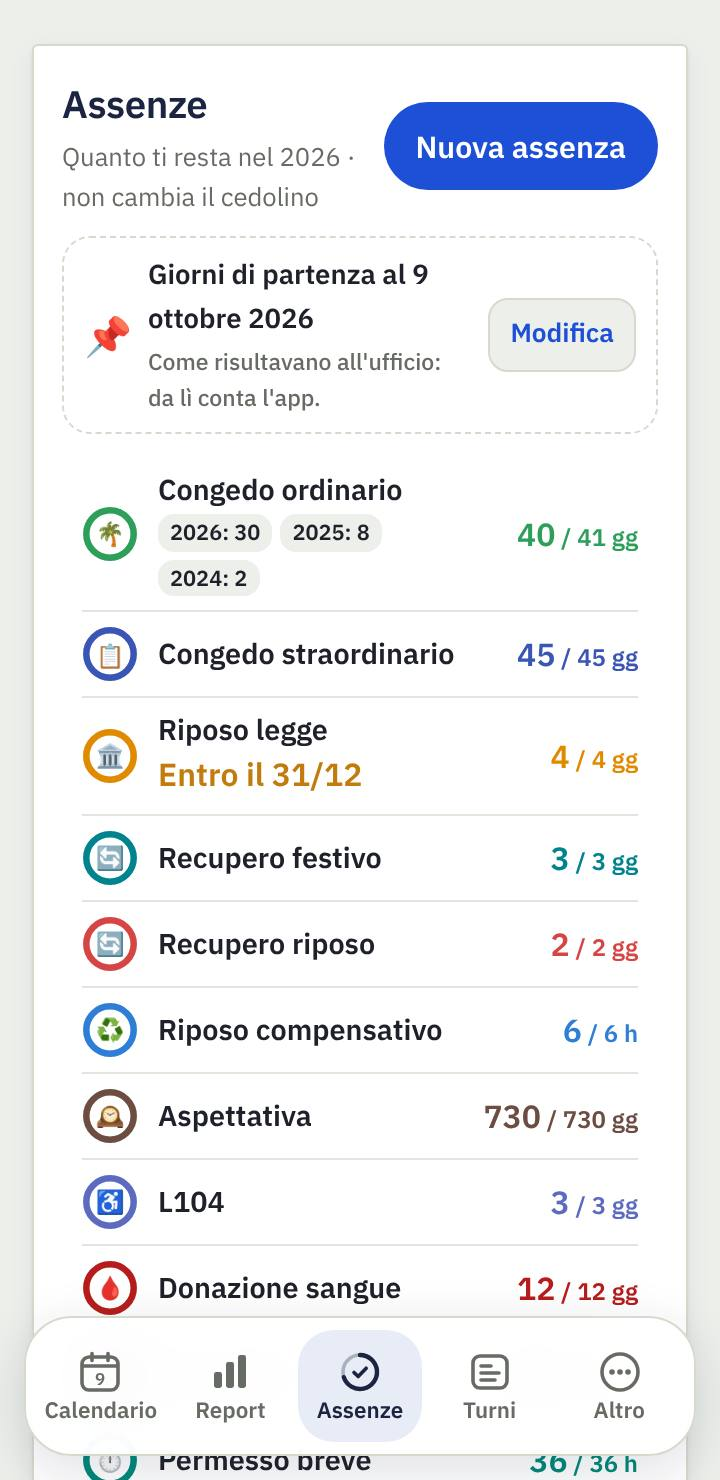
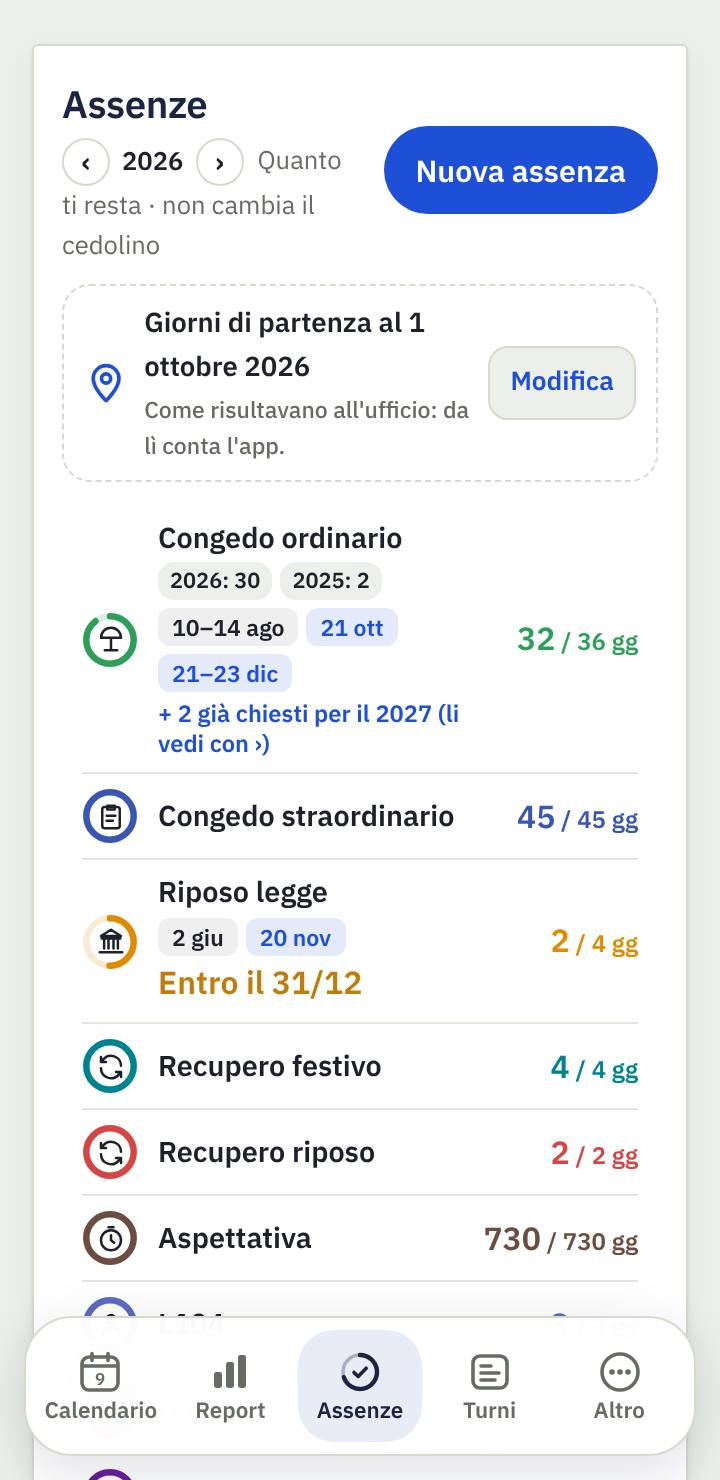
Guida Turni: vista Anno, barretta, date sulle assenze (v3.8.27)
Claude-Session: https://claude.ai/code/session_01PSeREU5gDDB7bRrUAU7GkJ

diff --git a/guida-turni.html b/guida-turni.html
@@ -23,7 +23,7 @@ a{color:#2E4A8F}
 @media(max-width:600px){.sez{grid-template-columns:1fr}.sez img{width:min(240px,70vw);margin:4px auto 0}.tab td:first-child{white-space:normal}}
 </style></head><body>
 <h1>Guida a Turni & Accessorio PS</h1>
-<p class="agg">Come si usa l'app, passo per passo · aggiornata alla versione 3.8.26</p>
+<p class="agg">Come si usa l'app, passo per passo · aggiornata alla versione 3.8.27</p>
 <nav><a href="#inizio">Primi passi</a><a href="#calendario">Calendario</a><a href="#cerca">Cerca o chiedi</a><a href="#voce">Detta a voce</a><a href="#giorno">Il giorno e le indennità</a><a href="#sequenza">Turni</a><a href="#report">Report</a><a href="#assenze">Assenze</a><a href="#altro">Altro</a><a href="#promemoria">Promemoria e widget</a><a href="#utilita">Utilità</a><a href="#link">Link utili</a><a href="#backup">Backup</a><a href="#domande">Domande</a></nav>
 
 <h2 id="inizio">1. Primi passi</h2>
@@ -48,12 +48,14 @@ a{color:#2E4A8F}
 <li>Sotto il giorno selezionato vedi anche il <b>nome della festività</b> (Natale, Pasqua, 2 giugno…).</li>
 <li>Se cambi o cancelli un turno per sbaglio, tocca <b>Annulla</b> nell'avviso che compare in basso: il calendario torna com'era.</li>
 <li>Dal pulsantino <b>Mese ▾</b>, con <b>Condividi il mese</b> mandi il calendario del mese come immagine (WhatsApp, email…).</li>
+<li>La vista <b>Anno</b> (da <b>Mese ▾ → Anno</b>) mostra i 12 mesi colorati per turno, con le <b>ferie e le assenze</b> segnate da un bordino: comoda per programmare. Tocca un mese per aprirlo. Sotto il calendario c'è una <b>barretta</b>: trascinala in su per passare da Anno a Mese a Settimana, in giù per tornare indietro.</li>
 <li>Con il pulsantino <b>Mese ▾</b> in alto scegli la vista: <b>Giorno</b> (la giornata a ore), <b>Settimana</b> (un giorno per riga con orario, indennità, straordinario, servizio svolto ed eventi, e il totale delle ore), <b>Mese</b> o <b>Agenda</b>. L'app ricorda l'ultima scelta.</li>
 <li><b>Evento</b> aggiunge visite, corsi, appuntamenti, anche ripetuti, con promemoria. Tocca un'ora nella giornata per scegliere l'orario. In <b>Altre opzioni</b> trovi colore, luogo, note e <b>Suona anche in silenzioso</b>: 10 secondi di suono e vibrazione, anche con il telefono in silenzioso.</li>
 <li>I giorni del mese prima e dopo si vedono sbiaditi; toccandoli si passa a quel mese con il giorno già selezionato.</li>
 <li>Se una <b>scadenza</b> è vicina (entro un mese), compare in una riga sottile sopra il mese; toccandola apri le Scadenze.</li>
 </ul>
 </div><img src="turni/guida/calendario.jpg" alt="Calendario del mese" loading="lazy"></div>
+<div class="sez"><div><p><b>Vista Anno</b>: tutto l'anno in una schermata, con i turni a colori e le ferie in evidenza.</p></div><img src="turni/guida/anno.jpg" alt="Vista Anno" loading="lazy"></div>
 <h3 id="cerca">Cerca o chiedi (la lente)</h3>
 <div class="sez"><div>
 <p>Tocca la <b>lente 🔍</b> nella barra del mese. Puoi:</p>
@@ -193,10 +195,12 @@ a{color:#2E4A8F}
 <ul>
 <li>In alto i <b>Giorni di partenza</b>, con <b>Modifica</b>.</li>
 <li>Ogni voce su una riga, con il suo colore: quanto <b>rimane su quanto spetta</b>. L'<b>anello</b> è pieno quando è tutta da usare e si svuota man mano; grigio per le voci a 0. Il congedo ordinario mostra anche i giorni di ogni anno.</li>
+<li>Sotto ogni voce vedi le <b>date che hai chiesto</b> (es. «10–14 ago · 21–23 dic»): grigie quelle passate, blu quelle ancora da fare.</li>
+<li>In alto, con <b>‹ 2026 ›</b>, cambi anno: dal 1° gennaio vedi le date del nuovo anno, quelle vecchie restano nel loro anno. Le ferie già chieste per l'anno dopo le vedi con <b>›</b>, e sotto il congedo compare «+ 2 già chiesti per il 2027».</li>
 <li>Tocca una voce per i dettagli e per cambiare <b>quanto spetta</b>.</li>
 <li>Per usare un'assenza: nel calendario tocca il giorno → <b>Assenza</b> → scegli quale.</li>
 </ul>
-</div><img src="turni/guida/assenze.jpg" alt="Assenze e permessi" loading="lazy"></div>
+</div><img src="turni/guida/assenze.jpg" alt="Assenze con le date chieste" loading="lazy"></div>
 <h3>Saldi di partenza</h3>
 <p>L'app non può sapere quanti giorni avevi prima di usarla. Con <b>Inserisci i saldi di partenza</b> (o <b>Modifica</b>) scrivi:</p>
 <ul>
